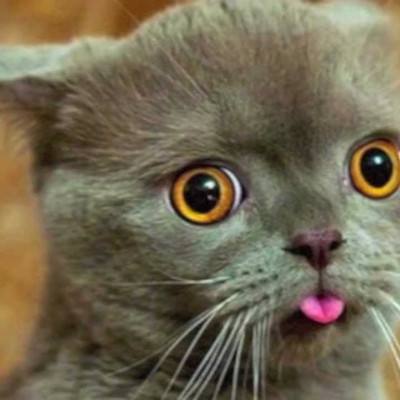
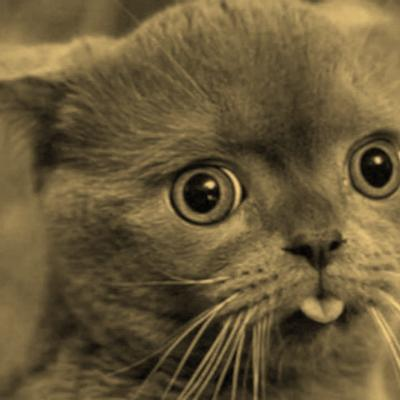
rotate,crop,resize,blur et bien plus

diff --git a/image.js b/image.js
@@ -6,9 +6,14 @@ var gm = require('gm');
 /////// CROP ///////
 // var event = {op:'crop', name:'cat.png', p1:250, p2:250, p3:10, p4:10};
 /////// RESIZE ///////
-var event = {op:'resize', name:'max-small_height.jpg', p1:700, p2:500};
+// var event = {op:'resize', name:'max-small_height.jpg', p1:700, p2:500};
 /////// ROTATE ///////
 // var event = {op:'rotate', name:'cat_fun.jpg', p1:220};
+/////// SEPIA ///////
+// var event = {op:'sepia', name:'cropped-North.jpg'};
+/////// CONVERT ///////
+var event = {op:'convert', name:'cropped-North.jpg'};
+
 
 // var event = {op:'crop', name:'cat.png', p1:250, p2:250, p3:10, p4:10};
 var error = "Operation requested";
@@ -59,6 +64,15 @@ const rotate = (event) => {
 	});
 };
 
+const sepia = (event) => {
+	gm(event.name)
+	.sepia()
+	.write(event.name, function (err) {
+	    if (err) throw err
+	    console.log("Written montage image.")
+	});
+};
+
 const op = event.op
 delete event.op;
 if (!op) {
@@ -76,6 +90,12 @@ case 'crop':
 	break;
 case 'rotate':
 	rotate(event);
+	break;
+case 'sepia':
+	sepia(event);
+	break;
+case 'convert':
+	convert(event);
 	break;
 default :
 	callback(new Error("Unrecognized operation ${op}"));
